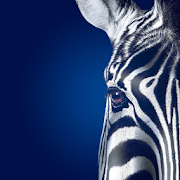
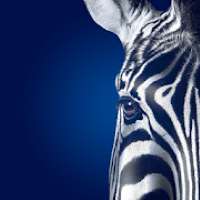
Resize images

diff --git a/styles.css b/styles.css
@@ -242,8 +242,8 @@ table {
 }
 
 .project img {
-    height: 10rem;
-    width: 10rem;
+    height: 200px;
+    width: 200px;
     margin-right: 10px;
 }
 
